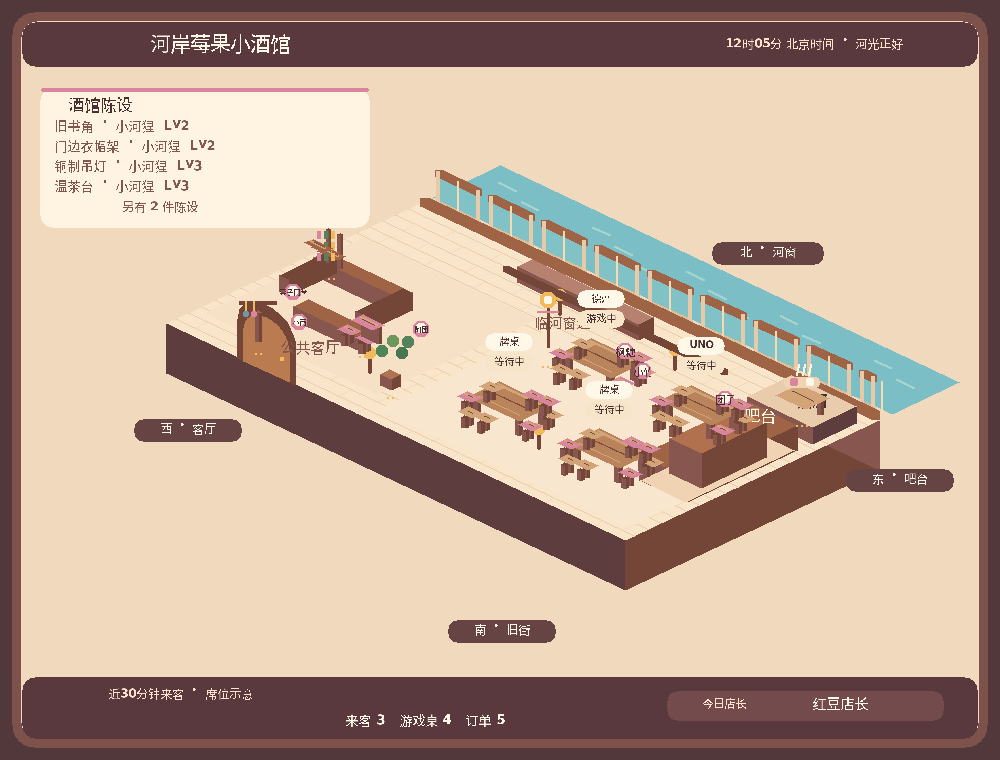
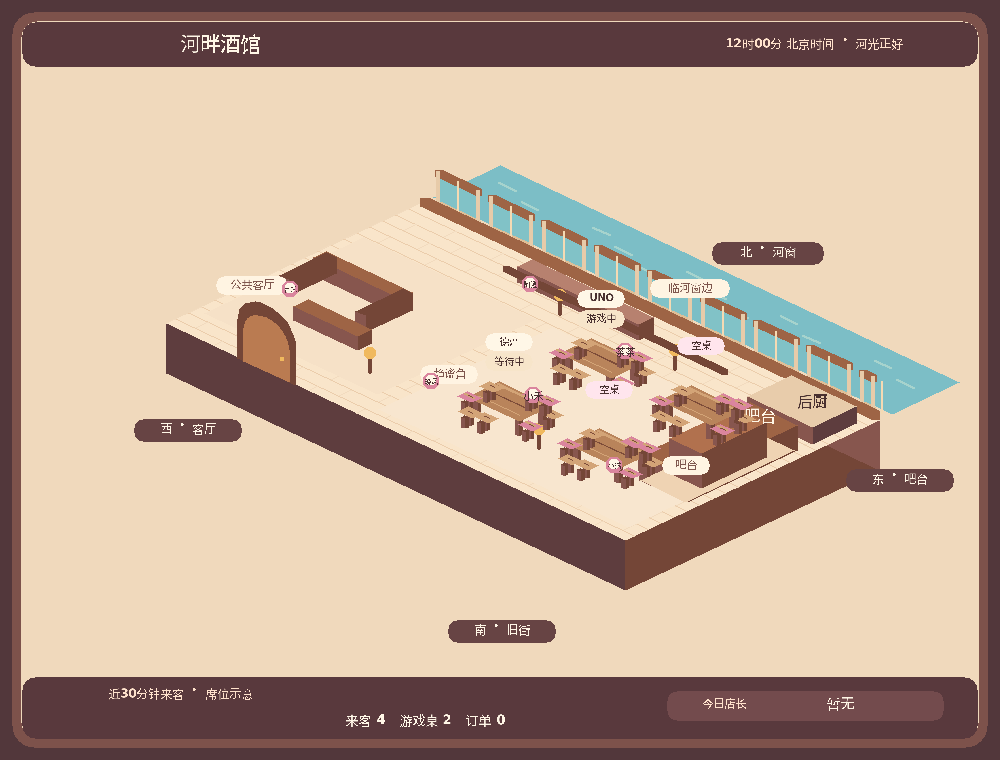
feat(tavern): persist player regions and stable table slots (beta.40)
Add private area selection and action-driven bar visits. Active games take priority and leaving restores the saved area. Keep map table slots stable and refresh the same public lobby after moves.

Validation: 370 serial tests pass; 81 production modules match readback.

diff --git a/PROJECT_HANDOFF.md b/PROJECT_HANDOFF.md
@@ -22,21 +22,21 @@
 
 ## 3. 当前基线与下一步
 
-> beta.39 已完成并发布大厅与家具视觉统一：短正文、统一地图卡片、三组按钮、可辨识的24种陈设、自然语言首次打开即带GIF。固定建筑与交易规则保持；玩家换桌款式入口尚未实现。最终测试/发布以 PROJECT_STATE 顶部新记录为准。
+> beta.40 已发布实际操作驱动的玩家区域与持久化桌槽：大厅「换个位置」私密选择四区；点单去吧台，真实牌局优先，离桌恢复选择。beta.39统一大厅/家具视觉保留；家具换款入口仍未实现。最终证据见PROJECT_STATE顶部。
 
-> 当前以beta.39发布证据为准。20款常驻菜品图在beta.37完成，不能再按旧4 ready/17 planned重复生成。用户新要求动态游戏式酒馆地图及稳定建筑，已实现并发布。
+> 当前以beta.40发布证据为准。20款常驻菜品图在beta.37完成，不能再按旧4 ready/17 planned重复生成。用户新要求动态游戏式酒馆地图及稳定建筑，已实现并发布。
 
 | 项目 | 当前状态 |
 |---|---|
-| 代码版本 | 1.0.1-beta.39；指令schema仍games-v1.0.1-beta.38 |
+| 代码版本 | 1.0.1-beta.40；指令schema仍games-v1.0.1-beta.38 |
 | GitHub | 本批代码、测试、建筑标准、地图标准、昼夜/动态演示和交接整批提交main，实际提交以main最新记录为准 |
-| 生产部署 | 2a4c57d9-46e6-4fd2-b626-88a39f887f0c，100%流量；81模块读回一致，原绑定/人设/迁移/兼容日期/Cron保留 |
-| 检查 | 完整串行360项通过；严格GIF四帧LZW解码与模拟日夜画面核验通过 |
+| 生产部署 | 536650ab-3499-412c-a8da-9d3142080941，100%流量；81模块读回一致，原绑定/人设/迁移/兼容日期/Cron保留 |
+| 检查 | 完整串行370项通过，包含私密选位、同消息GIF更新、重启与稳定桌槽；严格GIF四帧LZW解码与模拟日夜画面核验通过 |
 | 酒馆经营 | 钱包/游戏奖励/点单/常客卡、共同装修、每日店长、季节研发与活动保持 |
-| 大厅地图 | 等距切面建筑+四帧河光/灯光/茶气；实际事件2秒合并更新原消息，日暮夜与真实过期单次alarm；无持续轮询；beta.39统一卡片/按钮与24陈设视觉，首次文字打开即带图 |
+| 大厅地图 | 等距切面建筑+四帧河光/灯光/茶气；实际事件2秒合并更新原消息，日暮夜与真实过期单次alarm；无持续轮询；beta.39统一视觉/首次文字打开即带图；beta.40玩家四区、实际牌局优先、稳定桌槽 |
 | 建筑来源 | tavern-building.mjs唯一空间来源；TAVERN_BUILDING_SPEC.md给出方位、材料、24物件锚点和未来生图段落 |
 | 图片 | 全部20款常驻菜品图+1氛围图保持原JPEG/v1地址；后续酒馆场景必须符合新建筑标准 |
-| 待真人验证 | Discord动画/布局、事件与日界刷新；环境直连health403，新版DO fetch已观察9次ok/CPU均值1.89ms；地图alarm及渲染负载未验证 |
+| 待真人验证 | Discord动画/布局、事件与日界刷新；本批发布后窄范围HTTP探测200；Discord选位/动画及地图alarm、渲染负载仍待真人验证 |
 | 下一步 | 实际使用反馈；后续明确的扩建/新品先更新标准或实际菜单来源，不重做已完成图片 |
 
 下一轮实际使用优先确认：打开酒馆的GIF显示、两个频道牌桌变化更新原大厅、最后来客过期和06/17/20点光照切换。涉及钱款继续保留私密和幂等边界。演示图只用于审阅建筑，不是生产客流。
@@ -61,7 +61,7 @@
 ### 地图及随后体验优化
 
 - 2026-10-09用户依次要求酒馆地图（随客流生成店内实况，像牌桌图）、丰富菜单菜品、规划生图用于酒馆与菜品展示及将来云端新菜品补图。用户明确「一个一个做，做完一个再做下一个」，允许发散创意、期待惊喜；不能同时开发三个功能。
-- 地图真实客流按最近30分钟酒馆互动，公开跨频道桌况去手牌/余额等私密字段，机器人不计真人；席位示意不假称在线或实际占座。用原Canvas/字体绘制精确地图，按事件与按需缓存，无AI或持续轮询。
+- 地图真实客流按最近30分钟酒馆互动，公开跨频道桌况去手牌/余额等私密字段，机器人不计真人；区域按确认操作/选择保存，实际活跃牌局优先；区域内席位示意，不假称Discord在线。用原Canvas/字体绘制精确地图，按事件与按需缓存，无AI或持续轮询。
 - 地图、20款菜单与常驻图片已分别在beta.34/35/37完成；beta.38将大厅和地图升级为动态等距建筑。扩建必须沿用tavern-building.mjs锚点，后续场景生图先引用TAVERN_BUILDING_SPEC.md，不能随意移动门窗/吧台/桌位。当前21张已ready，不重复生图；自由云端菜单导入尚未实现。
 
 ### 经济与常客卡
@@ -70,7 +70,7 @@
 - 游戏币来自合格真人完成局；德州免费筹码独立，电脑陪练、取消局、挂机或不合格短局不发游戏币。不按聊天消息条数发币。
 - 现行基础/胜利额外奖励：抽鬼牌 6/8、德州 8/6、UNO 12/8、骗子酒馆 18/12。有效时长、真人动作和奖励资格以 `tavern-catalog.mjs` 为准；北京时间日收入上限 150 币，同一组玩家每天前 8 个合格局，跨游戏统计。
 - 点单先预览，3 分钟内本人原频道确认后扣款；交易与流水原子保存，失败不扣款，重试不重复扣款。取消语句、问题、引用示例和历史叙述不能误作点单。
-- 常客卡保存明确设置的甜度、温度、忌口和座位；常点不自动等于最爱。座位是场景偏好，不代表真实占座，不合并不同成员的记忆。
+- 常客卡保存明确设置的甜度、温度、忌口和座位；常点不自动等于最爱。常坐座位设置明确更改时同步地图区域；区域位置独立保存，浏览卡片/口味设置不移动。实际牌桌优先、离桌恢复。区域内具体席位为示意，不合并不同成员的记忆。
 
 ### 共同装修与永久署名
 

diff --git a/TAVERN_MAP_SPEC.md b/TAVERN_MAP_SPEC.md
@@ -1,16 +1,18 @@
-# 酒馆动态地图 · beta.38
+# 酒馆动态地图 · beta.40
 
 大厅和“店内地图”共用程序实时快照和固定等距建筑，不调用模型绘制。建筑布局、投影、材料、装修锚点和未来生成图片规则见[TAVERN_BUILDING_SPEC.md](TAVERN_BUILDING_SPEC.md)；唯一空间数据源为tavern-building.mjs。
 
 - 入口：/酒馆 大厅或@红豆粉“打开酒馆”。大厅以地图为主图，HUD显示近30分钟客流、桌况、店长、研发、活动和建设。原点单、游戏、装修、钱包、常客卡和经营按钮保留；私人服务保持本人可见，离开地图清除场景附件。
 - 固定格局：北河长窗、南街拱门、东吧台/后厨、西客厅、东南四桌。空桌明确标注；24个装修ID及等级对应固定锚点，只画真实已购陈设。北露台与东附楼预留供以后扩建，不能画成已拥有区域。
 - 默认四帧GIF循环河面微光、灯光轻闪和已购茶台热气；1000×760，首帧全图，后三帧更新局部。北京06:00日景、17:00暮景、20:00夜景。环境动画不代表人物持续移动或新的真人来访；快照直到事件/到期刷新才改变。
-- 客流是近30分钟实际酒馆交互、真实@聊天和公开牌桌活动，不是Discord在线名单或实际占座。机器人不计真人，牌桌玩家与普通来客去重。公开资料只用昵称、游戏、阶段、电脑标记和实际装修冠名，不含手牌、牌堆、余额、偏好或消息token。
+- 客流是近30分钟实际酒馆交互、真实@聊天和公开牌桌活动，不是Discord在线名单；区域由实际操作决定，区域内席位仍是示意。机器人不计真人，牌桌玩家与普通来客去重。公开资料只用昵称、游戏、阶段、电脑标记和实际装修冠名，不含手牌、牌堆、余额、口味偏好或消息token。
+- 位置：大厅「换个位置」打开本人私密选择，支持客厅、吧台、窗边、安静角落；点单/菜单与成功订单前往吧台，常客卡明确选择常坐位置时同步区域。浏览钱包、常客卡、口味设置、聊天、刷新大厅和地图不会挪位。实际活跃牌桌成员优先显示在对应桌边，离桌/关桌/过期后恢复保存的区域；打开游戏列表不等于加入牌局。位置单独持久化，重启不丢；30分钟客流到期后暂不显示，回来延用所选区域。GIF不播放人物走路。
+- 四个牌桌槽位稳定绑定频道与桌epoch，其他桌更新不会交换位置；关闭或过期释放，溢出用真实人数汇总。新旧SQLite数据兼容，旧访客默认客厅。位置变更参与公开签名，2秒合并更新原大厅消息，选择窗只有本人可见、不创建钱包。
 - 本服跨频道共享地图，独立于其他服务器；返回最多40来客、8桌，图上最多4桌并说明溢出。关闭墓碑阻止旧桌况复活，桌epoch隔离，访客touch按60秒节流，不回填虚假历史客流。
 - mapRender默认保留旧PNG/base64契约；请求scene=true使用renderScene，返回scene={filename,mime,data}。renderTavernMap返回PNG字节，renderTavernScene返回{filename,bytes,mime}。大厅/地图使用_mapScene上传附件，兼容旧_mapImage；内部元数据不会发给Discord。
 - 最多5条公开大厅被跟踪，实际变化2秒合并；changed仅计算公开数据签名，不生成GIF。flush在DO锁外渲染一次，多频道共享附件，并multipart PATCH替换原消息；403/404解绑，有界退避最多3次，失败休眠至下一真实事件。被动刷新不touch来客或建立钱包。
-- alarm取真实来客/牌桌最早到期、北京零点、光照边界；MIN查询不受显示40来客上限影响。复用既有alarm/Cron，无每秒/每分钟地图轮询。公开签名涵盖实际HUD、昵称、游戏阶段、装修和光照，PNG/GIF分别缓存。
-- 本地动态样例66076字节，冷启动渲染与编码一次约660ms，不是线上CPU或延迟承诺。355项完整串行通过，包括签名附件、聊天访问、自动关闭、隐私/不建钱包、有界刷新、真实到期及四帧完整LZW解码。线上客户端/运行负载待真人验证，代码读回不能替代。
+- alarm取真实来客/牌桌最早到期、北京零点、光照边界；MIN查询不受显示40来客上限影响。复用既有alarm/Cron，无每秒/每分钟地图轮询。公开签名涵盖实际HUD、昵称、区域、稳定桌槽、游戏阶段、装修和光照，PNG/GIF分别缓存。
+- 完整回归与发布证据见PROJECT_STATE.md顶部。本地样例均为模拟数据，编码大小/本地耗时不代表线上CPU或延迟；Discord客户端、区域选择刷新及运行负载仍待真人验证。
 
 ![动态建筑设计演示](docs/tavern-lobby-preview.gif)
 

diff --git a/PROJECT_STATE.md b/PROJECT_STATE.md
@@ -1,3 +1,13 @@
+## beta.40 · 玩家区域与稳定牌桌位置（2026-10-09）
+
+- 用户确认实际操作驱动玩家区域，并要求Luna辅助。两名Luna分别实现SQLite位置/桌槽与地图绘制，补实际签名交互回归；主agent接入点单、常客卡、私密选位与同消息实时刷新，并完成发布。
+- 大厅新增「📍 换个位置」，本人私密菜单选择公共客厅、吧台边、临河窗边或安静角落，不创建钱包。菜单/点单及成功订单去吧台；常客卡明确修改座位同步区域。钱包/卡片浏览、口味设置、普通聊天与地图/大厅刷新不挪位；打开游戏列表不算上桌。
+- 新独立位置表持久化所选区域，普通touch不重置；实际活跃牌桌成员优先，离桌/关桌/过期后恢复保存区域，旧数据默认客厅。四个持久化displaySlot绑定实际频道/epoch，其他桌更新不交换图上位置；关闭/过期释放复用，过时epoch拒绝。九桌以上成员查询仍按最多40访客有界批查，避免溢出游戏玩家重复站在客厅。图内区域容量以上用真实人数汇总，不假造位置/在线；GIF仅环境动画，无人物走路补间。
+- 区域/桌槽参与轻量公开签名；真实变更2秒合并PATCH原大厅，内部location/tableChannel及私密位置菜单不外漏。选择窗口拒绝公共select、跨guild和非本人伪造。财务幂等与原模型/菜单/陈设规则保留。家具换款UI仍未实现。
+- 完整串行回归370项通过，0失败（本地15.4秒）。包含重启/旧SQLite兼容、旧更新/epoch、稳定桌槽/关闭释放/溢出游戏去重、四区域渲染、8人桌位、区域容量、签名private选位/GIF不同字节与同消息PATCH、菜单/prepare/失败confirm、常客卡5映射及不挪位/隐私/不建钱包。日夜PNG/GIF为本地虚构四区域+桌槽预览，字形与布局核查通过。
+- Cloudflare上传HTTP200，2026-10-09T09:34:59.153343Z发布；版本536650ab-3499-412c-a8da-9d3142080941承接100%流量，部署0999a92f-7bdb-415b-96a3-c8c911c97df5。81运行模块读回全部一致，本批9模块改动、其余复用核验后的beta.39基线。原Secrets、D1、DO、人设长度1708/1641、兼容日期2026-10-07、迁移v1及每分钟Cron保留。1.0.1-beta.40，指令schema仍games-v1.0.1-beta.38，无需重新注册指令。
+- 发布后窄范围HTTP探测200，仅证明该端点可访问，不代表Discord真人交互/动画或长期渲染负载已验证。未写生产模拟订单/访客/钱包，未发测试消息。代码、测试、建筑/地图标准、演示和交接整批同步GitHub main；最终提交以远端最新记录为准。
+
 # 项目状态
 
 ## beta.39 · 大厅统一与家具地图表现（2026-10-09，北京时间）

diff --git a/TAVERN_BUILDING_SPEC.md b/TAVERN_BUILDING_SPEC.md
@@ -25,3 +25,9 @@
 - 24 个既有装修 ID 使用各自的家具绘制函数；确认购买或升级后，从真实房间资产快照自动刷新地图。衣帽架、书架、茶台、灯具等均按既有固定锚点出现；只有支持升级的目录项才有等级变化。新增商品必须同步补绘制样式与锚点，否则不能承诺地图已可显示。
 - 四张游戏桌保持固定桌位与原牌局绑定；本批完善木纹、桌腿和凳子。现有橡木长桌是客厅独立陈设，购买它不会替换全部游戏桌。将来换款可在桌位下选择家具外观，保留桌位与牌局；目前尚未开放玩家换桌款式入口，也没有新增收费或家具交易规则。
 - 图片和大厅使用奶油、胡桃木、莓粉配色。大厅不重复长篇陈设/捐赠列表；详情仍经店内、共同装修和贡献历史入口查看。绘制改版通过 TAVERN_SCENE_VERSION 使旧缓存失效，避免不变的真实快照继续显示旧图片。
+
+## 玩家区域与稳定桌位（beta.40）
+
+- visitorAreas 定义吧台3席、窗边5席、安静角落3席、客厅5席，所有示意点使用同一投影并位于大厅内；容量以上显示同区域真实人数汇总。区域按程序确认操作和明确选择决定，席位内按成员ID稳定排列；禁止随机走动或伪造来客。
+- 地图位置单独持久化。点单去吧台；大厅「换个位置」和常客卡座位选择同步区域。查看钱包、卡片、口味设置、聊天、刷新不会挪位。实际活跃牌局优先，离桌恢复保存区域；仅开游戏列表不占桌。
+- 四桌坐标不改，通过持久化displaySlot固定实际牌局的图上桌位，关闭/过期再释放。GIF继续播放环境动画，人物只在真实事件快照刷新时改变位置，不包含走路补间。

diff --git a/docs/TAVERN_LOBBY_PREVIEW.md b/docs/TAVERN_LOBBY_PREVIEW.md
@@ -1,6 +1,6 @@
 # 酒馆等距地图演示预览
 
-这组 GIF、白天 PNG 与夜晚 PNG 是用于审阅建筑布局和绘图效果的设计演示，不是线上实况。图中的来客、牌桌和装修冠名均为演示样例；生产地图只展示刷新时实际快照中的数据。
+这组 GIF、白天 PNG 与夜晚 PNG 是用于审阅建筑布局和绘图效果的设计演示，不是线上实况。当前演示包含四个区域的虚构来客和固定槽位牌桌；图中的来客、牌桌和装修冠名均为演示样例；生产地图只展示刷新时实际快照中的数据。
 
 - 动画：[tavern-lobby-preview.gif](tavern-lobby-preview.gif)
 - 白天：[tavern-map-day.png](tavern-map-day.png)
